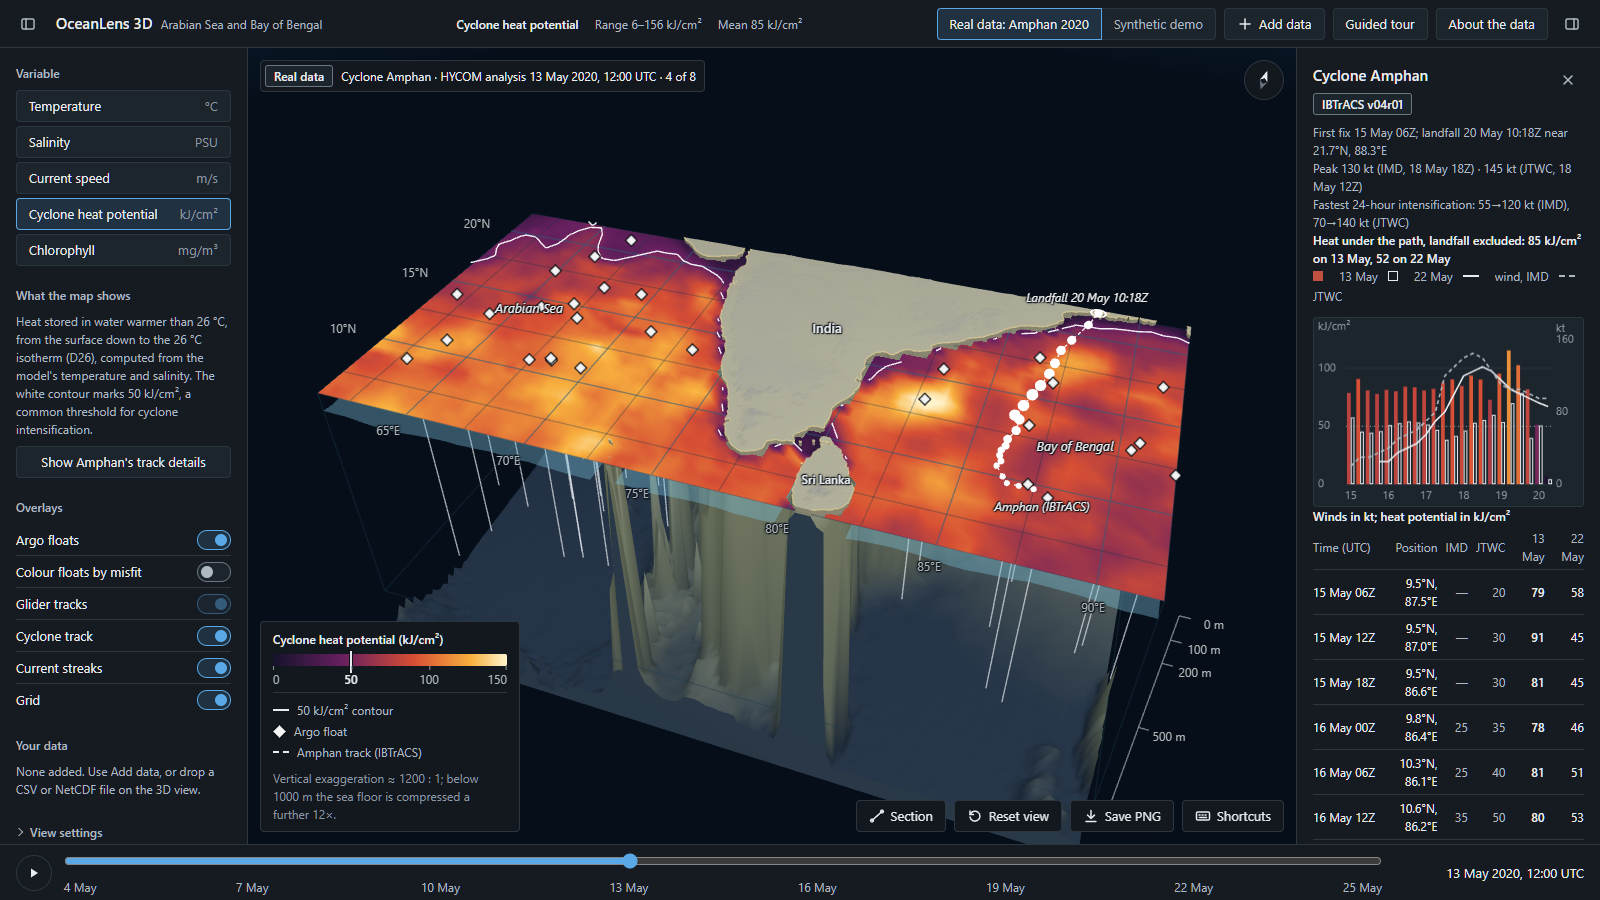
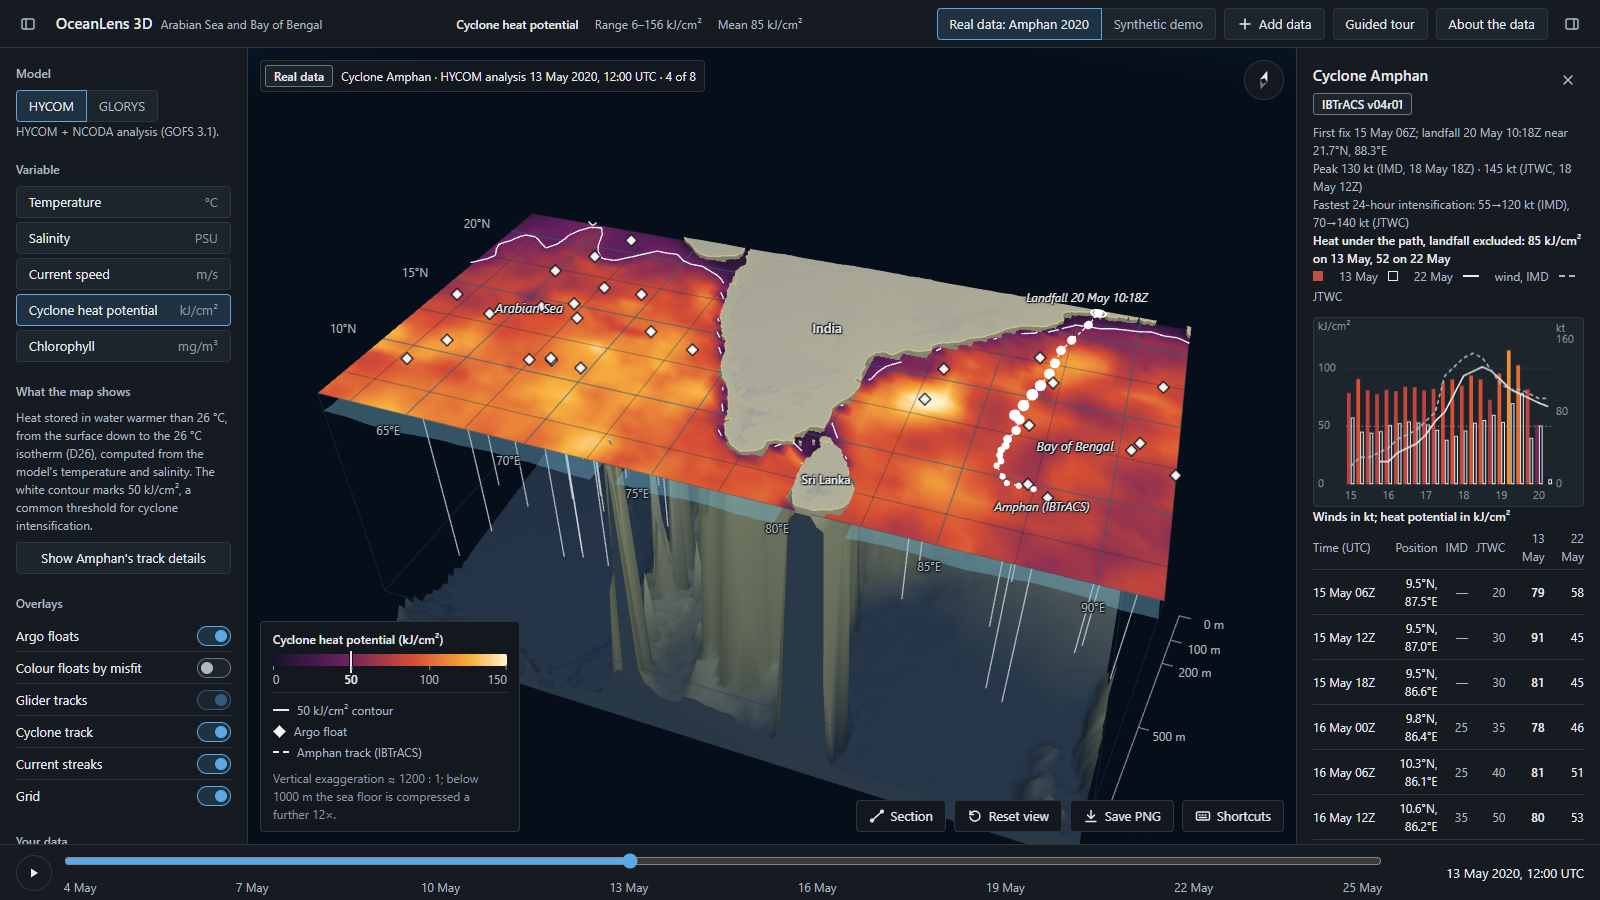
README screenshots with the model switch; presenter guide requirement count
- The four README screenshots retaken in the current interface (the Model
  switch shows), same states as before; a fifth shows GLORYS's heat
  potential on 13 May beside HYCOM's (109 against 85 kJ/cm2 under the path).
- Presenter guide: 21 Met, 12 Partly met, 6 Not met (it still said 19, 13, 7).

Changed region(s): [[0.0, 0.0622, 0.1562, 0.7467], [0.0, 0.7156, 0.1562, 0.9333]]

diff --git a/README.md b/README.md
@@ -45,11 +45,12 @@ desktop screen. The automated tests run in Chromium-based browsers. Firefox 157 
 
 <table>
   <tr>
-    <td width="50%"><img src="docs/images/cyclone-heat-potential.png" alt="Cyclone heat potential map with Amphan's track and the track panel"><br><sub><b>Heat before Amphan.</b> Cyclone heat potential on 13 May 2020, with the 50 kJ/cm² contour and the track details.</sub></td>
-    <td width="50%"><img src="docs/images/cold-wake-section.png" alt="Vertical temperature section along Amphan's track"><br><sub><b>The cold wake.</b> A section along the track after landfall, with D26 and D20 marked.</sub></td>
+    <td width="50%"><img src="docs/images/cyclone-heat-potential.png" alt="Cyclone heat potential in HYCOM with Amphan's track and the track panel"><br><sub><b>Heat before Amphan, HYCOM.</b> Cyclone heat potential on 13 May 2020, with the 50 kJ/cm² contour: about 85 kJ/cm² under the path.</sub></td>
+    <td width="50%"><img src="docs/images/cyclone-heat-potential-glorys.png" alt="Cyclone heat potential in Copernicus GLORYS on the same day, with the track panel"><br><sub><b>The same day, GLORYS.</b> One click on Model: the Copernicus reanalysis puts about 109 kJ/cm² under the same path.</sub></td>
   </tr>
   <tr>
-    <td colspan="2"><img src="docs/images/argo-vs-hycom.png" alt="An Argo float's temperature profile compared with HYCOM"><br><sub><b>Argo against HYCOM.</b> The worst-fitting float during the storm: observed profile solid, model dashed, with bias and RMSE.</sub></td>
+    <td width="50%"><img src="docs/images/cold-wake-section.png" alt="Vertical temperature section along Amphan's track"><br><sub><b>The cold wake.</b> A section along the track after landfall, with D26 and D20 marked.</sub></td>
+    <td width="50%"><img src="docs/images/argo-vs-hycom.png" alt="An Argo float's temperature profile compared with HYCOM"><br><sub><b>Argo against HYCOM.</b> The worst-fitting float during the storm: observed profile solid, model dashed, with bias and RMSE.</sub></td>
   </tr>
 </table>
 

diff --git a/docs/PRESENTER_GUIDE.md b/docs/PRESENTER_GUIDE.md
@@ -351,7 +351,7 @@ Start in **Real data** mode, temperature, Surface view, at the 4 May analysis. T
 
 ## Likely judge questions
 
-Answer honestly; the limits are documented, and owning them earns trust. Of the problem statement's 39 requirement rows in `REQUIREMENTS.md`, 19 are Met, 13 Partly met and 7 Not met.
+Answer honestly; the limits are documented, and owning them earns trust. Of the problem statement's 39 requirement rows in `REQUIREMENTS.md`, 21 are Met, 12 Partly met and 6 Not met.
 
 | Question | Answer |
 | --- | --- |
